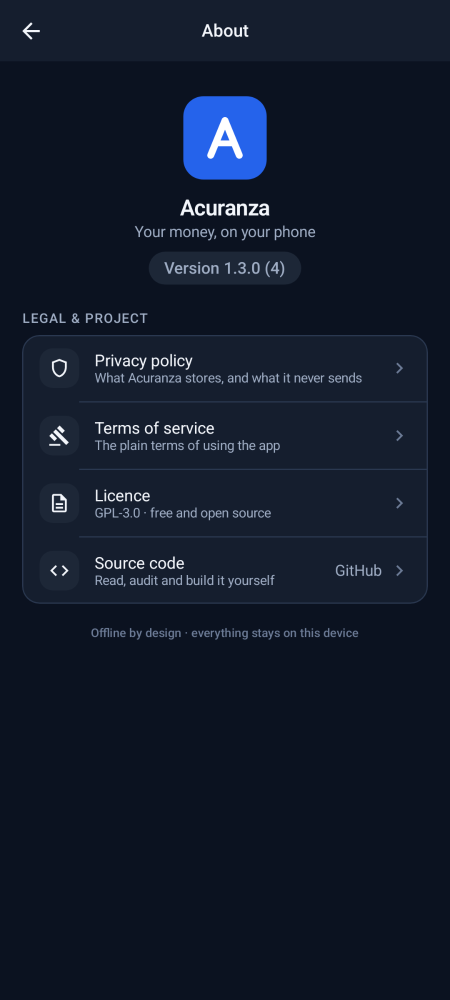
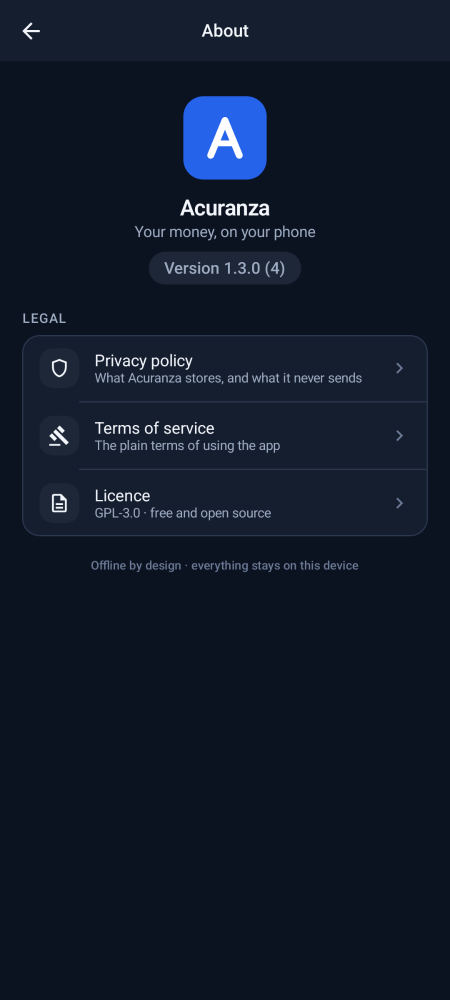
v1.7.6: About Source code section removed (row, GitHub URL, openSource handler, onVisitSource param); all in-app Acuranza references removed (licence-sheet attribution line, settings footer); koshViewModel renamed acuranzaViewModel across 12 files; store listing, README and dev docs de-Koshed and st

diff --git a/app/src/main/java/com/acuranza/app/ui/about/AboutScreen.kt b/app/src/main/java/com/acuranza/app/ui/about/AboutScreen.kt
@@ -1,10 +1,5 @@
 package com.acuranza.app.ui.about
 
-import android.content.ActivityNotFoundException
-import android.content.Context
-import android.content.Intent
-import android.net.Uri
-import android.widget.Toast
 import androidx.compose.foundation.background
 import androidx.compose.foundation.layout.Box
 import androidx.compose.foundation.layout.Column
@@ -21,7 +16,6 @@ import androidx.compose.foundation.shape.RoundedCornerShape
 import androidx.compose.foundation.verticalScroll
 import androidx.compose.material.icons.Icons
 import androidx.compose.material.icons.automirrored.outlined.ArrowBack
-import androidx.compose.material.icons.outlined.Code
 import androidx.compose.material.icons.outlined.Description
 import androidx.compose.material.icons.outlined.Gavel
 import androidx.compose.material.icons.outlined.Shield
@@ -39,7 +33,6 @@ import androidx.compose.runtime.setValue
 import androidx.compose.ui.Alignment
 import androidx.compose.ui.Modifier
 import androidx.compose.ui.draw.clip
-import androidx.compose.ui.platform.LocalContext
 import androidx.compose.ui.text.style.TextAlign
 import androidx.compose.ui.unit.dp
 import com.acuranza.app.BuildConfig
@@ -49,13 +42,9 @@ import com.acuranza.app.designsystem.theme.AcuranzaTheme
 import com.acuranza.app.ui.settings.SettingsRow
 import com.acuranza.app.ui.settings.SettingsSection
 
-/** The only external URL Acuranza links to: the source repository it is built from. */
-private const val SOURCE_URL = "https://github.com/AIM-IT4/kosh"
-
-/** The About Acuranza screen: branding, version and legal links. Reached from Settings. */
+/** The About Acuranza screen: branding, version and legal sheets. Reached from Settings. */
 @Composable
 fun AboutScreen(nav: androidx.navigation.NavController) {
-    val context = LocalContext.current
     var sheet by remember { mutableStateOf<AboutSheet?>(null) }
     AboutContent(
         versionLabel = "Version ${BuildConfig.VERSION_NAME} (${BuildConfig.VERSION_CODE})",
@@ -63,7 +52,6 @@ fun AboutScreen(nav: androidx.navigation.NavController) {
         onPrivacy = { sheet = AboutSheet.PRIVACY },
         onTerms = { sheet = AboutSheet.TERMS },
         onLicence = { sheet = AboutSheet.LICENCE },
-        onVisitSource = { openSource(context) },
     )
     when (sheet) {
         AboutSheet.PRIVACY -> InfoSheet(
@@ -103,10 +91,8 @@ fun AboutScreen(nav: androidx.navigation.NavController) {
         ) {
             InfoParagraph(
                 "Acuranza is free and open-source software under the GNU General Public License " +
-                    "v3.0. You may use, study, share and modify it; there is no warranty.",
-            )
-            InfoParagraph(
-                "It is a derivative of Kosh by Amit Kumar Jha, published under the same licence.",
+                    "v3.0. You may use, study, share and modify it; there is no warranty. The full " +
+                    "licence text accompanies the app's source distribution.",
             )
         }
         null -> Unit
@@ -115,19 +101,9 @@ fun AboutScreen(nav: androidx.navigation.NavController) {
 
 private enum class AboutSheet { PRIVACY, TERMS, LICENCE }
 
-private fun openSource(context: Context) {
-    runCatching {
-        context.startActivity(Intent(Intent.ACTION_VIEW, Uri.parse(SOURCE_URL)))
-    }.onFailure { e ->
-        if (e is ActivityNotFoundException) {
-            Toast.makeText(context, "No app can open this link", Toast.LENGTH_SHORT).show()
-        }
-    }
-}
-
 /**
  * Stateless body of the About screen, so tests can render it without BuildConfig: a branding
- * block, then the legal and project links in the same row kit Settings uses.
+ * block, then the legal sheets in the same row kit Settings uses.
  */
 @Composable
 fun AboutContent(
@@ -136,7 +112,6 @@ fun AboutContent(
     onPrivacy: () -> Unit,
     onTerms: () -> Unit = {},
     onLicence: () -> Unit,
-    onVisitSource: () -> Unit,
 ) {
     val c = AcuranzaTheme.colors
     Column(
@@ -199,11 +174,10 @@ fun AboutContent(
 
         // The section kit expects its parent to own the horizontal padding (as Settings' list does).
         Column(Modifier.padding(horizontal = 20.dp)) {
-            SettingsSection("Legal & project") {
+            SettingsSection("Legal") {
                 SettingsRow("Privacy policy", "What Acuranza stores, and what it never sends", Icons.Outlined.Shield) { onPrivacy() }
                 SettingsRow("Terms of service", "The plain terms of using the app", Icons.Outlined.Gavel) { onTerms() }
-                SettingsRow("Licence", "GPL-3.0 · free and open source", Icons.Outlined.Description) { onLicence() }
-                SettingsRow("Source code", "Read, audit and build it yourself", Icons.Outlined.Code, value = "GitHub", divider = false) { onVisitSource() }
+                SettingsRow("Licence", "GPL-3.0 · free and open source", Icons.Outlined.Description, divider = false) { onLicence() }
             }
         }
 

diff --git a/app/src/main/java/com/acuranza/app/ui/accounts/Accounts.kt b/app/src/main/java/com/acuranza/app/ui/accounts/Accounts.kt
@@ -82,7 +82,7 @@ import com.acuranza.app.ui.common.FormColumn
 import com.acuranza.app.ui.common.AcuranzaScreen
 import com.acuranza.app.ui.common.AcuranzaTextField
 import com.acuranza.app.ui.common.LocalHideAmounts
-import com.acuranza.app.ui.common.koshViewModel
+import com.acuranza.app.ui.common.acuranzaViewModel
 import com.acuranza.app.ui.common.bankEnum
 import com.acuranza.app.ui.common.label
 import com.acuranza.app.ui.home.TxnRow
@@ -117,7 +117,7 @@ class AccountsViewModel(private val c: AppContainer) : ViewModel() {
 
 @Composable
 fun AccountsScreen(nav: NavController) {
-    val vm = koshViewModel { AccountsViewModel(it) }
+    val vm = acuranzaViewModel { AccountsViewModel(it) }
     val accounts by vm.accounts.collectAsStateWithLifecycle()
     val ignored by vm.ignored.collectAsStateWithLifecycle()
     val hidden = LocalHideAmounts.current
@@ -286,7 +286,7 @@ class AccountDetailViewModel(private val c: AppContainer, private val id: Long) 
 
 @Composable
 fun AccountDetailScreen(nav: NavController, id: Long) {
-    val vm = koshViewModel(key = "acc-$id") { AccountDetailViewModel(it, id) }
+    val vm = acuranzaViewModel(key = "acc-$id") { AccountDetailViewModel(it, id) }
     val state by vm.state.collectAsStateWithLifecycle()
     val hidden = LocalHideAmounts.current
     var reconcile by remember { mutableStateOf(false) }
@@ -475,7 +475,7 @@ private val TYPES = listOf(AccountType.BANK, AccountType.CREDIT_CARD, AccountTyp
 
 @Composable
 fun AccountEditScreen(nav: NavController, editId: Long?, defaultCard: Boolean) {
-    val vm = koshViewModel(key = "acc-edit-$editId") { AccountEditViewModel(it) }
+    val vm = acuranzaViewModel(key = "acc-edit-$editId") { AccountEditViewModel(it) }
     var existing by remember { mutableStateOf<AccountEntity?>(null) }
     var type by remember { mutableStateOf(if (defaultCard) AccountType.CREDIT_CARD else AccountType.BANK) }
     var bank by remember { mutableStateOf(Bank.HDFC) }

diff --git a/app/src/main/java/com/acuranza/app/ui/transactions/AddTransactionScreen.kt b/app/src/main/java/com/acuranza/app/ui/transactions/AddTransactionScreen.kt
@@ -58,7 +58,7 @@ import com.acuranza.app.ui.common.AcuranzaTextField
 import com.acuranza.app.ui.common.bankEnum
 import com.acuranza.app.ui.common.color
 import com.acuranza.app.data.tombstones
-import com.acuranza.app.ui.common.koshViewModel
+import com.acuranza.app.ui.common.acuranzaViewModel
 import com.acuranza.app.ui.common.launchGuarded
 import com.acuranza.app.ui.nav.popPast
 import com.acuranza.app.ui.common.label
@@ -126,7 +126,7 @@ class AddTransactionViewModel(private val c: AppContainer) : ViewModel() {
 @OptIn(ExperimentalMaterial3Api::class)
 @Composable
 fun AddTransactionScreen(nav: NavController, editId: Long?, initialType: TxnType, initialAccountId: Long?) {
-    val vm = koshViewModel(key = "add-$editId") { AddTransactionViewModel(it) }
+    val vm = acuranzaViewModel(key = "add-$editId") { AddTransactionViewModel(it) }
     val refs by vm.refs.collectAsStateWithLifecycle()
     AddTransactionContent(
         refs = refs,

diff --git a/app/src/main/java/com/acuranza/app/ui/transactions/TransactionDetailScreen.kt b/app/src/main/java/com/acuranza/app/ui/transactions/TransactionDetailScreen.kt
@@ -55,7 +55,7 @@ import com.acuranza.app.ui.common.Fmt
 import com.acuranza.app.ui.common.AcuranzaScreen
 import com.acuranza.app.ui.common.LocalHideAmounts
 import com.acuranza.app.ui.common.color
-import com.acuranza.app.ui.common.koshViewModel
+import com.acuranza.app.ui.common.acuranzaViewModel
 import com.acuranza.app.ui.common.label
 import com.acuranza.app.ui.nav.Routes
 import com.acuranza.app.util.Time
@@ -89,7 +89,7 @@ class TransactionDetailViewModel(private val c: AppContainer, private val id: Lo
 
 @Composable
 fun TransactionDetailScreen(nav: NavController, id: Long) {
-    val vm = koshViewModel(key = "txn-$id") { TransactionDetailViewModel(it, id) }
+    val vm = acuranzaViewModel(key = "txn-$id") { TransactionDetailViewModel(it, id) }
     val state by vm.state.collectAsStateWithLifecycle()
     val hidden = LocalHideAmounts.current
     var recategorise by remember { mutableStateOf(false) }

diff --git a/app/src/main/java/com/acuranza/app/ui/accounts/PendingAccounts.kt b/app/src/main/java/com/acuranza/app/ui/accounts/PendingAccounts.kt
@@ -56,7 +56,7 @@ import com.acuranza.app.ui.common.Fmt
 import com.acuranza.app.ui.common.AcuranzaScreen
 import com.acuranza.app.ui.common.AcuranzaTextField
 import com.acuranza.app.ui.common.LocalHideAmounts
-import com.acuranza.app.ui.common.koshViewModel
+import com.acuranza.app.ui.common.acuranzaViewModel
 import com.acuranza.app.ui.common.launchGuarded
 import com.acuranza.app.ui.common.label
 import com.acuranza.app.util.Time
@@ -174,7 +174,7 @@ fun AccountWithBalance.sourceLine(): String = when (val s = source) {
 
 @Composable
 fun PendingAccountsScreen(nav: NavController) {
-    val vm = koshViewModel { PendingAccountsViewModel(it) }
+    val vm = acuranzaViewModel { PendingAccountsViewModel(it) }
     val state by vm.state.collectAsStateWithLifecycle()
     val hidden = LocalHideAmounts.current
     var merging by remember { mutableStateOf<AccountWithBalance?>(null) }

diff --git a/app/src/main/java/com/acuranza/app/ui/bills/BillsScreen.kt b/app/src/main/java/com/acuranza/app/ui/bills/BillsScreen.kt
@@ -59,7 +59,7 @@ import com.acuranza.app.ui.common.AcuranzaScreen
 import com.acuranza.app.ui.common.LocalHideAmounts
 import com.acuranza.app.ui.common.Pill
 import com.acuranza.app.ui.common.bankEnum
-import com.acuranza.app.ui.common.koshViewModel
+import com.acuranza.app.ui.common.acuranzaViewModel
 import com.acuranza.app.ui.common.launchGuarded
 import com.acuranza.app.ui.common.label
 import com.acuranza.app.ui.common.rememberHaptic
@@ -99,7 +99,7 @@ class BillsViewModel(private val c: AppContainer) : ViewModel() {
 @OptIn(ExperimentalMaterial3Api::class)
 @Composable
 fun BillsScreen(nav: NavController) {
-    val vm = koshViewModel { BillsViewModel(it) }
+    val vm = acuranzaViewModel { BillsViewModel(it) }
     val state by vm.state.collectAsStateWithLifecycle()
     val hidden = LocalHideAmounts.current
     var paying by remember { mutableStateOf<BillItem?>(null) }

diff --git a/app/src/main/java/com/acuranza/app/ui/transactions/Uncategorised.kt b/app/src/main/java/com/acuranza/app/ui/transactions/Uncategorised.kt
@@ -59,7 +59,7 @@ import com.acuranza.app.model.TxnType
 import com.acuranza.app.ui.common.Fmt
 import com.acuranza.app.ui.common.AcuranzaScreen
 import com.acuranza.app.ui.common.LocalHideAmounts
-import com.acuranza.app.ui.common.koshViewModel
+import com.acuranza.app.ui.common.acuranzaViewModel
 import com.acuranza.app.util.Time
 import kotlinx.coroutines.flow.SharingStarted
 import kotlinx.coroutines.flow.StateFlow
@@ -142,7 +142,7 @@ fun UncategorisedBanner(count: Int, onClick: () -> Unit, modifier: Modifier = Mo
 @OptIn(ExperimentalMaterial3Api::class)
 @Composable
 fun UncategorisedScreen(nav: NavController) {
-    val vm = koshViewModel { UncategorisedViewModel(it) }
+    val vm = acuranzaViewModel { UncategorisedViewModel(it) }
     val state by vm.state.collectAsStateWithLifecycle()
     val hidden = LocalHideAmounts.current
     val context = LocalContext.current

diff --git a/app/src/main/java/com/acuranza/app/ui/transactions/TransactionsScreen.kt b/app/src/main/java/com/acuranza/app/ui/transactions/TransactionsScreen.kt
@@ -48,7 +48,7 @@ import com.acuranza.app.repo.TxnFilter
 import com.acuranza.app.ui.common.Fmt
 import com.acuranza.app.ui.common.AcuranzaTextField
 import com.acuranza.app.ui.common.LocalHideAmounts
-import com.acuranza.app.ui.common.koshViewModel
+import com.acuranza.app.ui.common.acuranzaViewModel
 import com.acuranza.app.ui.common.rememberHaptic
 import com.acuranza.app.ui.home.TxnRow
 import com.acuranza.app.ui.nav.Routes
@@ -210,7 +210,7 @@ class TransactionsViewModel(private val c: AppContainer) : ViewModel() {
 
 @Composable
 fun TransactionsScreen(nav: NavController) {
-    val vm = koshViewModel { TransactionsViewModel(it) }
+    val vm = acuranzaViewModel { TransactionsViewModel(it) }
     val state by vm.state.collectAsStateWithLifecycle()
     val typed by vm.queryText.collectAsStateWithLifecycle()
     androidx.compose.runtime.LaunchedEffect(Unit) {

diff --git a/app/src/main/java/com/acuranza/app/ui/insights/InsightsScreen.kt b/app/src/main/java/com/acuranza/app/ui/insights/InsightsScreen.kt
@@ -73,7 +73,7 @@ import com.acuranza.app.finance.InsightRoute
 import com.acuranza.app.finance.Severity
 import com.acuranza.app.ui.common.AcuranzaScreen
 import com.acuranza.app.ui.common.LocalHideAmounts
-import com.acuranza.app.ui.common.koshViewModel
+import com.acuranza.app.ui.common.acuranzaViewModel
 import com.acuranza.app.ui.common.rememberHaptic
 import com.acuranza.app.ui.common.toUi
 import com.acuranza.app.ui.nav.Routes
@@ -123,7 +123,7 @@ fun openInsightAction(nav: NavController, action: InsightAction) {
 @OptIn(ExperimentalMaterial3Api::class)
 @Composable
 fun InsightsScreen(nav: NavController) {
-    val vm = koshViewModel { InsightsViewModel(it) }
+    val vm = acuranzaViewModel { InsightsViewModel(it) }
     val insights by vm.insights.collectAsStateWithLifecycle()
     val scope = rememberCoroutineScope()
     val haptic = rememberHaptic()

diff --git a/app/src/main/java/com/acuranza/app/ui/planning/PlanningScreen.kt b/app/src/main/java/com/acuranza/app/ui/planning/PlanningScreen.kt
@@ -75,7 +75,7 @@ import com.acuranza.app.ui.common.FormColumn
 import com.acuranza.app.ui.common.AcuranzaTextField
 import com.acuranza.app.ui.common.LocalHideAmounts
 import com.acuranza.app.ui.common.color
-import com.acuranza.app.ui.common.koshViewModel
+import com.acuranza.app.ui.common.acuranzaViewModel
 import com.acuranza.app.ui.common.launchGuarded
 import com.acuranza.app.ui.common.rememberHaptic
 import com.acuranza.app.util.Time
@@ -128,7 +128,7 @@ object PlanningTabRequest {
 
 @Composable
 fun PlanningScreen(@Suppress("UNUSED_PARAMETER") nav: NavController) {
-    val vm = koshViewModel { PlanningViewModel(it) }
+    val vm = acuranzaViewModel { PlanningViewModel(it) }
     val state by vm.state.collectAsStateWithLifecycle()
     var tab by rememberSaveable { mutableIntStateOf(0) }
     val requestedTab = PlanningTabRequest.pending

diff --git a/app/src/main/java/com/acuranza/app/ui/settings/MoreScreen.kt b/app/src/main/java/com/acuranza/app/ui/settings/MoreScreen.kt
@@ -180,7 +180,7 @@ fun MoreScreen(nav: NavController) {
                 Column(Modifier.fillMaxWidth().padding(vertical = 24.dp), horizontalAlignment = Alignment.CenterHorizontally) {
                     Text("Acuranza ${context.versionName()}", style = MaterialTheme.typography.labelLarge, color = AcuranzaTheme.colors.subtleText)
                     Text("Everything stays on this device · no internet access", style = MaterialTheme.typography.labelSmall, color = AcuranzaTheme.colors.subtleText)
-                    Text("Free & open source · GPL-3.0 · based on Kosh", style = MaterialTheme.typography.labelSmall, color = AcuranzaTheme.colors.subtleText)
+                    Text("Free & open source · GPL-3.0", style = MaterialTheme.typography.labelSmall, color = AcuranzaTheme.colors.subtleText)
                 }
             }
         }

diff --git a/app/src/main/java/com/acuranza/app/ui/transactions/ReviewScreen.kt b/app/src/main/java/com/acuranza/app/ui/transactions/ReviewScreen.kt
@@ -49,7 +49,7 @@ import com.acuranza.app.repo.TransactionItem
 import com.acuranza.app.ui.common.Fmt
 import com.acuranza.app.ui.common.AcuranzaScreen
 import com.acuranza.app.ui.common.LocalHideAmounts
-import com.acuranza.app.ui.common.koshViewModel
+import com.acuranza.app.ui.common.acuranzaViewModel
 import com.acuranza.app.ui.common.rememberHaptic
 import com.acuranza.app.ui.home.TxnRow
 import com.acuranza.app.ui.nav.Routes
@@ -76,7 +76,7 @@ class ReviewViewModel(private val c: AppContainer) : ViewModel() {
 
 @Composable
 fun ReviewScreen(nav: NavController) {
-    val vm = koshViewModel { ReviewViewModel(it) }
+    val vm = acuranzaViewModel { ReviewViewModel(it) }
     val state by vm.state.collectAsStateWithLifecycle()
     val hidden = LocalHideAmounts.current
     val haptic = rememberHaptic()
